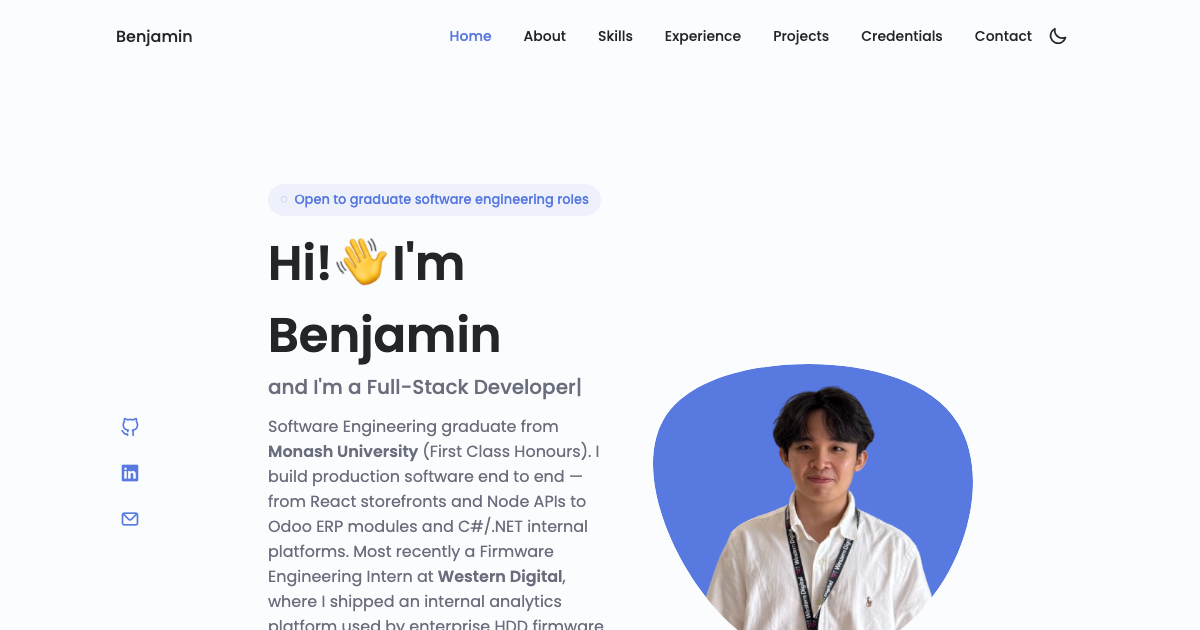
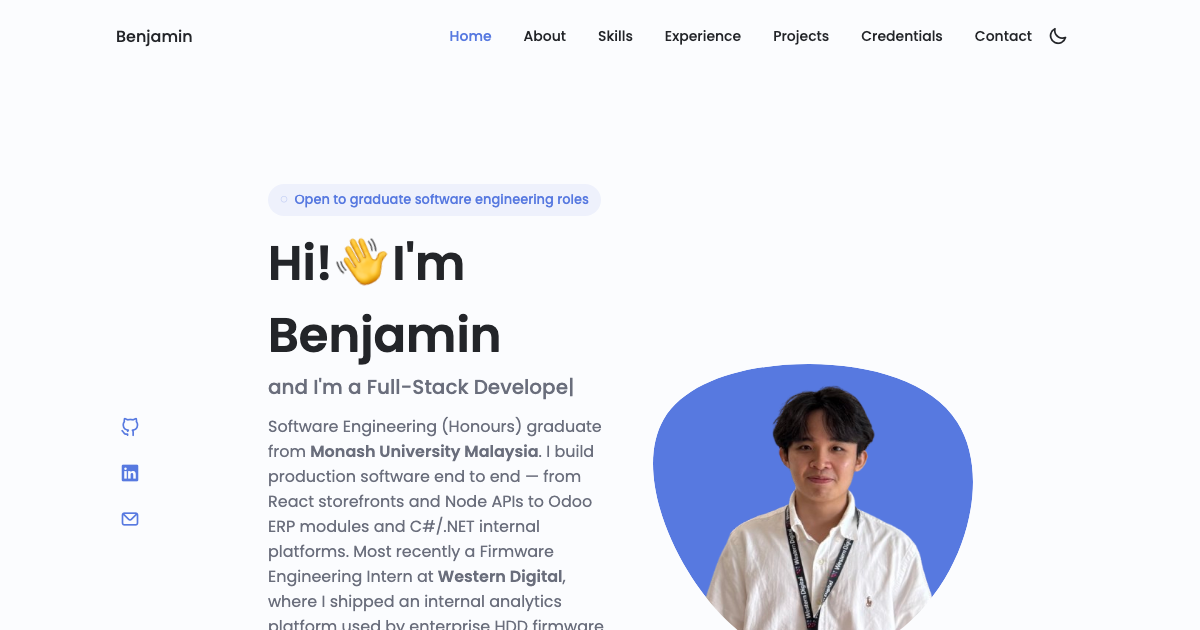
updated on the location

Changed region(s): [[0.2158, 0.6635, 0.4933, 0.8444], [0.4625, 0.6032, 0.4933, 0.6333]]

diff --git a/index.html b/index.html
@@ -5,7 +5,7 @@
     <meta charset="UTF-8" />
     <meta name="viewport" content="width=device-width, initial-scale=1.0" />
     <meta name="description"
-        content="Benjamin Tan En Zhe — Software Engineering graduate (First Class Honours, Monash University). Full-stack developer with internship experience at Western Digital and Odoo ERP delivery for ERS Energy. Open to graduate software engineering roles.">
+        content="Benjamin Tan En Zhe — Software Engineering (Honours) graduate, Monash University Malaysia. Full-stack developer with internship experience at Western Digital and Odoo ERP delivery for ERS Energy. Open to graduate software engineering roles in Malaysia.">
     <meta name="keywords"
         content="Benjamin Tan, Benjamin Tan En Zhe, software engineer, graduate software engineer, full stack developer, Odoo developer, Monash University, portfolio">
     <meta name="author" content="Benjamin Tan En Zhe">
@@ -13,7 +13,7 @@
     <!--==================== SOCIAL PREVIEW ====================-->
     <meta property="og:title" content="Benjamin Tan — Graduate Software Engineer">
     <meta property="og:description"
-        content="Full-stack developer. Western Digital intern, Odoo ERP developer, First Class Honours in Software Engineering.">
+        content="Full-stack developer. Western Digital intern, Odoo ERP developer, Software Engineering (Honours) graduate from Monash University Malaysia.">
     <meta property="og:type" content="website">
     <meta property="og:url" content="https://benjamin.stable.com.my">
     <meta property="og:image" content="https://benjamin.stable.com.my/preview.png">
@@ -154,7 +154,7 @@
                             and I'm <span class="auto-input"></span>
                         </h3>
                         <p class="home__description">
-                            Software Engineering graduate from <strong>Monash University</strong> (First Class Honours).
+                            Software Engineering (Honours) graduate from <strong>Monash University Malaysia</strong>.
                             I build production software end to end — from React storefronts and Node APIs to Odoo ERP
                             modules and C#/.NET internal platforms. Most recently a Firmware Engineering Intern at
                             <strong>Western Digital</strong>, where I shipped an internal analytics platform used by
@@ -192,8 +192,8 @@
 
                 <div class="about__data">
                     <p class="about__description">
-                        I'm Benjamin Tan En Zhe, a Software Engineering (Honours) graduate from Monash University,
-                        based in Leeds, UK. Over three internships and a year-long development contract I've worked
+                        I'm Benjamin Tan En Zhe, a Software Engineering (Honours) graduate from Monash University
+                        Malaysia. Over three internships and a year-long development contract I've worked
                         across the full stack — designing data pipelines and APIs, customising ERP platforms, and
                         building interfaces people actually use day to day.
                         <br><br>
@@ -207,8 +207,8 @@
 
                     <div class="about_info">
                         <div>
-                            <span class="about__info-title">1st</span>
-                            <span class="about__info-name">Class<br />honours</span>
+                            <span class="about__info-title">7</span>
+                            <span class="about__info-name">Projects<br />shipped</span>
                         </div>
                         <div>
                             <span class="about__info-title">4+</span>
@@ -606,7 +606,7 @@
                             </div>
                         <div>
                             <h3 class="experience__title">BEng Software Engineering (Honours)</h3>
-                            <span class="experience__subtitle">Monash University · First Class Honours</span>
+                            <span class="experience__subtitle">Monash University Malaysia</span>
                             <div class="experience__calendar">
                                 <i class="uil uil-calendar-alt"></i> Jul 2022 – Jun 2026
                             </div>
@@ -1150,7 +1150,7 @@
                     <div class="project__data">
                         <h2 class="project__title">Looking for a graduate engineer?</h2>
                         <p class="project__description">
-                            I'm available immediately for graduate software engineering roles in the UK and open to
+                            I'm available immediately for graduate software engineering roles across Malaysia and open to
                             relocation. Let's talk about what your team is building.
                         </p>
                         <a href="#contact" class="button button--flex button--white">
@@ -1179,11 +1179,11 @@
                         </div>
                     </a>
 
-                    <a href="tel:+447746686570" class="contact__information">
+                    <a href="tel:+60175259818" class="contact__information">
                         <i class="uil uil-phone contact__icon"></i>
                         <div>
                             <h3 class="contact__title">Phone</h3>
-                            <span class="contact__subtitle">+44 7746 686570</span>
+                            <span class="contact__subtitle">+60 17-525 9818</span>
                         </div>
                     </a>
 
@@ -1209,34 +1209,50 @@
                         <i class="uil uil-map-marker contact__icon"></i>
                         <div>
                             <h3 class="contact__title">Location</h3>
-                            <span class="contact__subtitle">Leeds, United Kingdom</span>
+                            <span class="contact__subtitle">Malaysia</span>
                         </div>
                     </div>
                 </div>
+                <form action="https://formsubmit.co/benjaminn03t@gmail.com" method="POST"
+                    class="contact__form grid">
+                    <!-- FormSubmit settings: fixed subject, readable email layout, spam honeypot. -->
+                    <input type="hidden" name="_subject" value="New enquiry from your portfolio">
+                    <input type="hidden" name="_template" value="table">
+                    <input type="text" name="_honey" style="display:none" tabindex="-1" autocomplete="off"
+                        aria-hidden="true">
 
-<div class="contact__cta">
-                    <h3 class="contact__cta-title">Let's talk</h3>
-                    <p class="contact__cta-text">
-                        I'm available immediately for graduate software engineering roles in the UK, and open to
-                        relocation. Send me a line about what your team is building — I read everything and reply
-                        within a day.
-                    </p>
-
-                    <div class="contact__cta-buttons">
-                        <a href="mailto:benjaminn03t@gmail.com?subject=Enquiry%20from%20your%20portfolio"
-                            class="button button--flex">
-                            Email me <i class="uil uil-envelope button__icon"></i>
-                        </a>
-                        <a download="" href="assets/pdf/benjamin-cv.pdf" class="button button--ghost button--flex">
-                            Download CV <i class="uil uil-download-alt button__icon"></i>
-                        </a>
+                    <div class="contact__inputs grid">
+                        <div class="contact__content">
+                            <label for="contact-name" class="contact__label">Name</label>
+                            <input id="contact-name" name="name" type="text" class="contact__input" required>
+                        </div>
+                        <div class="contact__content">
+                            <label for="contact-email" class="contact__label">Email</label>
+                            <input id="contact-email" name="email" type="email" class="contact__input" required>
+                        </div>
+                    </div>
+                    <div class="contact__content">
+                        <label for="contact-company" class="contact__label">Company / Role</label>
+                        <input id="contact-company" name="company" type="text" class="contact__input">
+                    </div>
+                    <div class="contact__content">
+                        <label for="contact-message" class="contact__label">Message</label>
+                        <textarea id="contact-message" name="message" cols="0" rows="7" class="contact__input"
+                            required></textarea>
                     </div>
 
-                    <a href="https://www.linkedin.com/in/bentez7" target="_blank" rel="noopener noreferrer"
-                        class="contact__cta-alt">
-                        or message me on LinkedIn <i class="uil uil-arrow-right"></i>
-                    </a>
-                </div>
+                    <div>
+                        <button type="submit" class="button button--flex">
+                            Send Message
+                            <i class="uil uil-message button__icon"></i>
+                        </button>
+
+                        <a href="mailto:benjaminn03t@gmail.com?subject=Enquiry%20from%20your%20portfolio"
+                            class="contact__cta-alt">
+                            or email me directly <i class="uil uil-arrow-right"></i>
+                        </a>
+                    </div>
+                </form>
             </div>
         </section>
     </main>

diff --git a/assets/css/style.css b/assets/css/style.css
@@ -1997,38 +1997,12 @@ body.dark-theme .portfolio__live {
   }
 }
 
-/*==================== CONTACT CALL TO ACTION ====================*/
-/* Replaces the old contact form. A static site can't process a form without a
-   third-party handler or PHP, and a plain mailto has no failure mode at all. */
-.contact__cta {
-  padding: 2rem 1.5rem;
-  border-radius: .75rem;
-  background-color: var(--container-color);
-  box-shadow: 0 4px 20px hsla(var(--hue-color), 64%, 15%, .1);
-}
-
-.contact__cta-title {
-  font-size: var(--h2-font-size);
-  font-weight: var(--font-semi-bold);
-  color: var(--title-color);
-  margin-bottom: var(--mb-0-75);
-}
-
-.contact__cta-text {
-  font-size: var(--small-font-size);
-  line-height: 1.6;
-  margin-bottom: var(--mb-1-5);
-}
-
-.contact__cta-buttons {
-  display: flex;
-  flex-wrap: wrap;
-  gap: .75rem;
-  margin-bottom: var(--mb-1-5);
-}
-
+/*==================== CONTACT FALLBACK LINK ====================*/
+/* Sits under the form: if FormSubmit is ever down or blocked, there is still a
+   direct route to the inbox. */
 .contact__cta-alt {
   display: inline-flex;
+  margin-top: var(--mb-1);
   align-items: center;
   column-gap: .25rem;
   font-size: var(--small-font-size);
